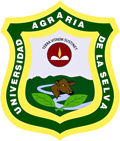
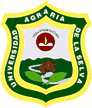
Correos más livianos: sello GIF a 1,5x con 16 cuadros y 64 colores, escudo reducido
Cada correo pasa de 122–251 KB a 46–76 KB con el mismo diseño y la animación.

diff --git a/scripts/correo/generar_recursos.py b/scripts/correo/generar_recursos.py
@@ -16,7 +16,6 @@ from __future__ import annotations
 
 import math
 import os
-import shutil
 from pathlib import Path
 
 from PIL import Image, ImageDraw, ImageEnhance, ImageFilter, ImageFont
@@ -24,7 +23,11 @@ from PIL import Image, ImageDraw, ImageEnhance, ImageFilter, ImageFont
 RAIZ = Path(__file__).resolve().parents[2]
 ORIGEN = Path(__file__).resolve().parent
 SALIDA = RAIZ / "backend/TutoriaUNAS.Api/Correo/Recursos"
-S = 2  # escala de alta densidad
+S = 2  # escala de dibujo
+# Peso del sello: se dibuja a 2x y se guarda a esta escala, con estos cuadros y colores.
+ESCALA_SELLO = float(os.environ.get("CORREO_SELLO_ESCALA", "1.5"))
+CUADROS = int(os.environ.get("CORREO_CUADROS", "16"))
+COLORES = int(os.environ.get("CORREO_COLORES", "64"))
 
 PAPEL = (255, 254, 250)
 VERDE = (43, 125, 60)
@@ -187,18 +190,19 @@ def sello(tipo: str, archivo_emoji: str, anim: str):
     texto_espaciado(d, ix0 + iw / 2, iy0 + (ih - bloque) / 2 + 60 * S + 7 * S, "UNAS", f, VERDE_OSCURO, 1.6 * S)
     marca = matasellos()
     duracion, _, _ = ANIM[anim]
-    n = 24
+    n = CUADROS
+    final = (round(166 * ESCALA_SELLO), round(150 * ESCALA_SELLO))
     cuadros = []
     for i in range(n):
         c = base.copy()
         emoji_en(c, emoji, anim, i / n)
         c.alpha_composite(marca)
-        cuadros.append(c.convert("RGB"))
+        cuadros.append(c.convert("RGB").resize(final, Image.LANCZOS))
     # Paleta única para todos los cuadros (sin tramado: así el fondo quieto no parpadea).
-    muestra = Image.new("RGB", (ANCHO, ALTO * 4))
+    muestra = Image.new("RGB", (final[0], final[1] * 4))
     for k, idx in enumerate((0, n // 4, n // 2, 3 * n // 4)):
-        muestra.paste(cuadros[idx], (0, ALTO * k))
-    paleta = muestra.quantize(colors=255, method=Image.Quantize.MEDIANCUT)
+        muestra.paste(cuadros[idx], (0, final[1] * k))
+    paleta = muestra.quantize(colors=COLORES, method=Image.Quantize.MEDIANCUT)
     gif = [c.quantize(palette=paleta, dither=Image.Dither.NONE) for c in cuadros]
     gif[0].save(SALIDA / f"sello-{tipo}.gif", save_all=True, append_images=gif[1:], loop=0,
                 duration=round(duracion * 1000 / n), disposal=1, optimize=True)
@@ -248,7 +252,11 @@ def main():
     for viejo in SALIDA.glob("*"):
         viejo.unlink()
     franja()
-    shutil.copy(RAIZ / "frontend/src/assets/unas-logo-mark-120.png", SALIDA / "escudo.png")
+    # Escudo a 2x de su tamaño en el correo (46×54) y con paleta reducida: de 36 KB a unos pocos KB.
+    escudo = Image.open(RAIZ / "frontend/src/assets/unas-logo-mark-120.png").convert("RGBA").resize((92, 108), Image.LANCZOS)
+    fondo = Image.new("RGBA", escudo.size, PAPEL + (255,))
+    fondo.alpha_composite(escudo)
+    fondo.convert("RGB").quantize(colors=64, method=Image.Quantize.MEDIANCUT).save(SALIDA / "escudo.png", optimize=True)
     medidas = {"marca": texto_png("Tutoría UNAS", "marca.png", 31, VERDE_OSCURO, 400, 1.0)}
     for tipo, (titulo, archivo, anim) in TIPOS.items():
         medidas[f"titulo-{tipo}"] = texto_png(titulo, f"titulo-{tipo}.png", 28, TINTA, 346)
